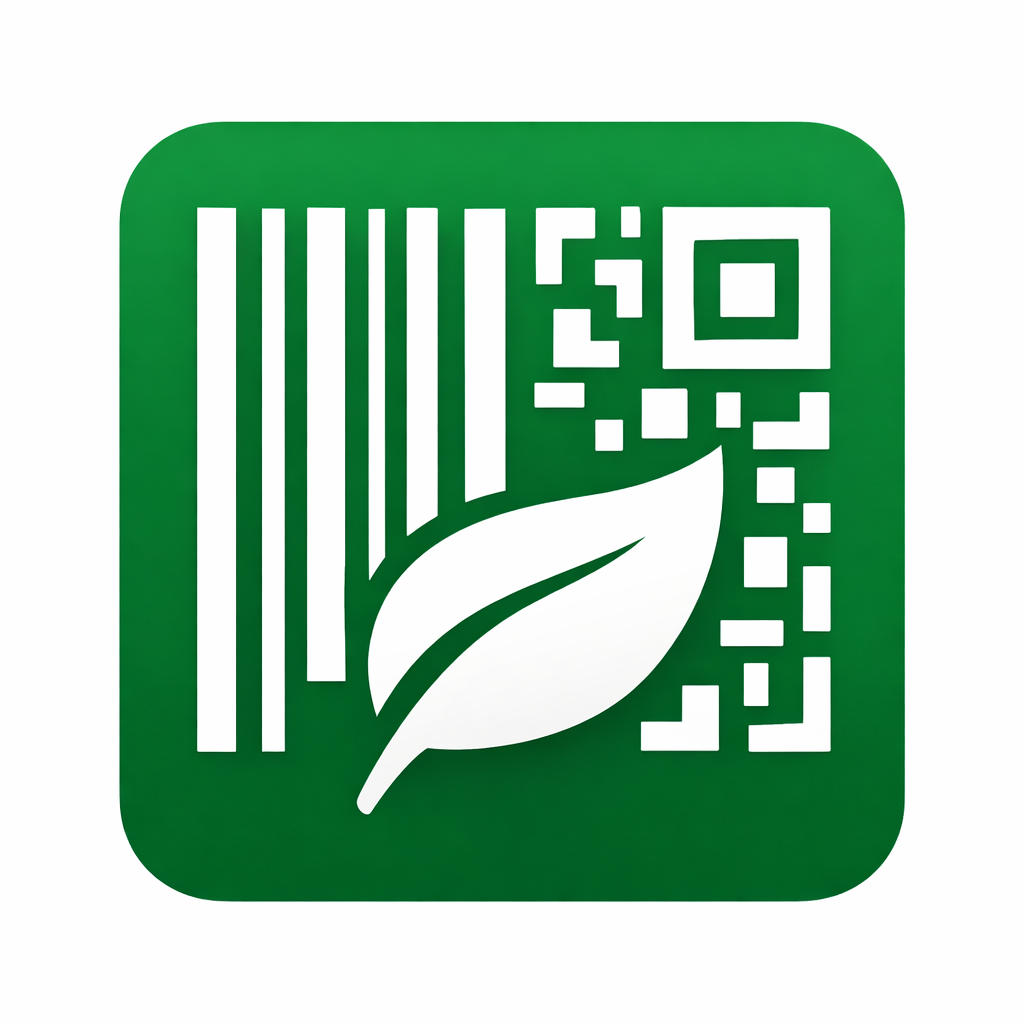
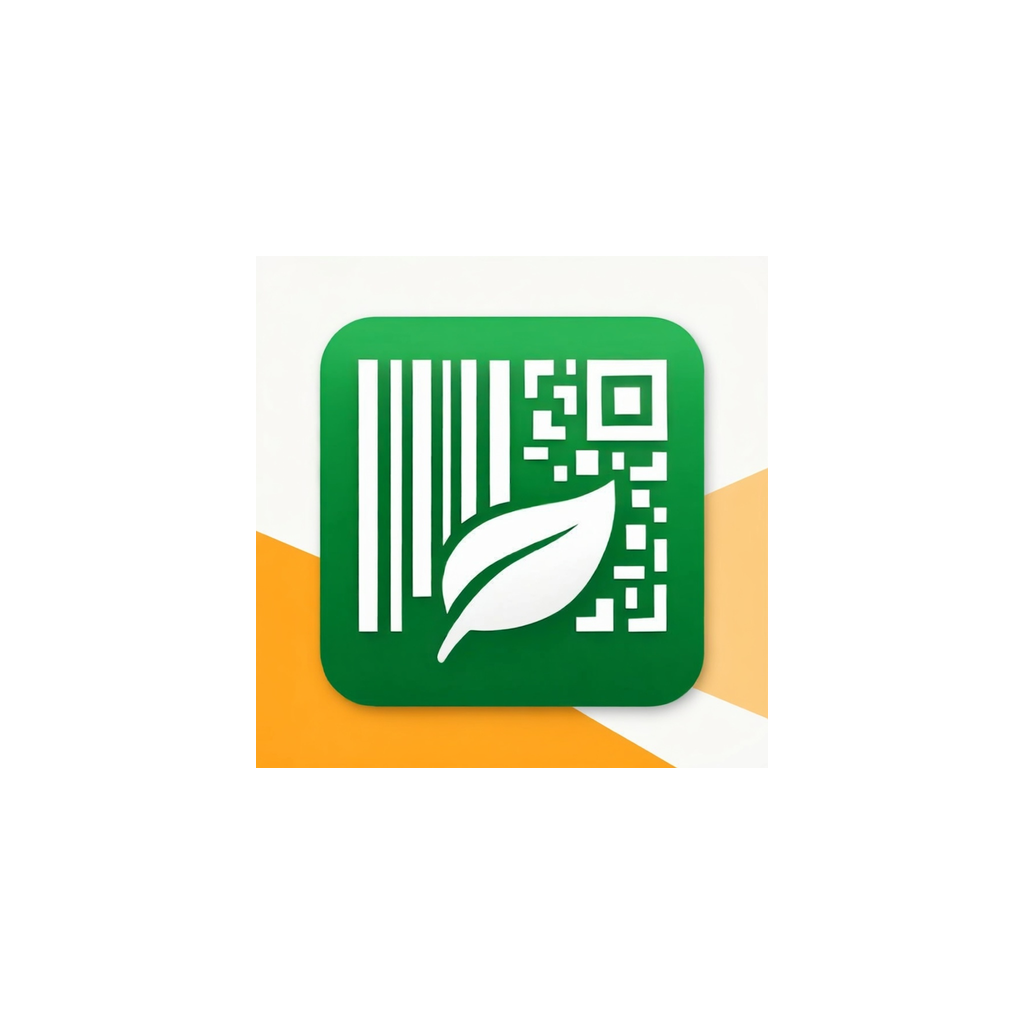
Version 1.1.1 - nouvelle icone + fix script conversion

diff --git a/app.config.ts b/app.config.ts
@@ -32,7 +32,7 @@ const env = {
   appSlug: "phytocheck-app",
   // S3 URL of the app logo - set this to the URL returned by generate_image when creating custom logo
   // Leave empty to use the default icon from assets/images/icon.png
-  logoUrl: "https://files.manuscdn.com/user_upload_by_module/session_file/310519663301976938/jaKhoOxxocgRITrI.png",
+  logoUrl: "https://files.manuscdn.com/user_upload_by_module/session_file/310519663301976938/TBJqsPYErRPRAlVD.png",
   scheme: schemeFromBundleId,
   iosBundleId: bundleId,
   androidPackage: bundleId,
